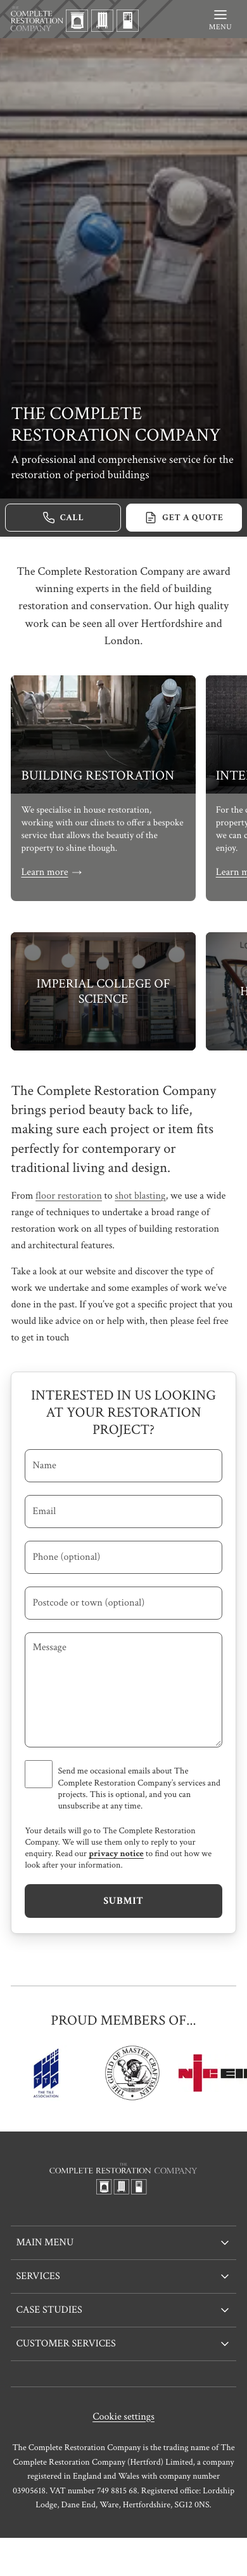
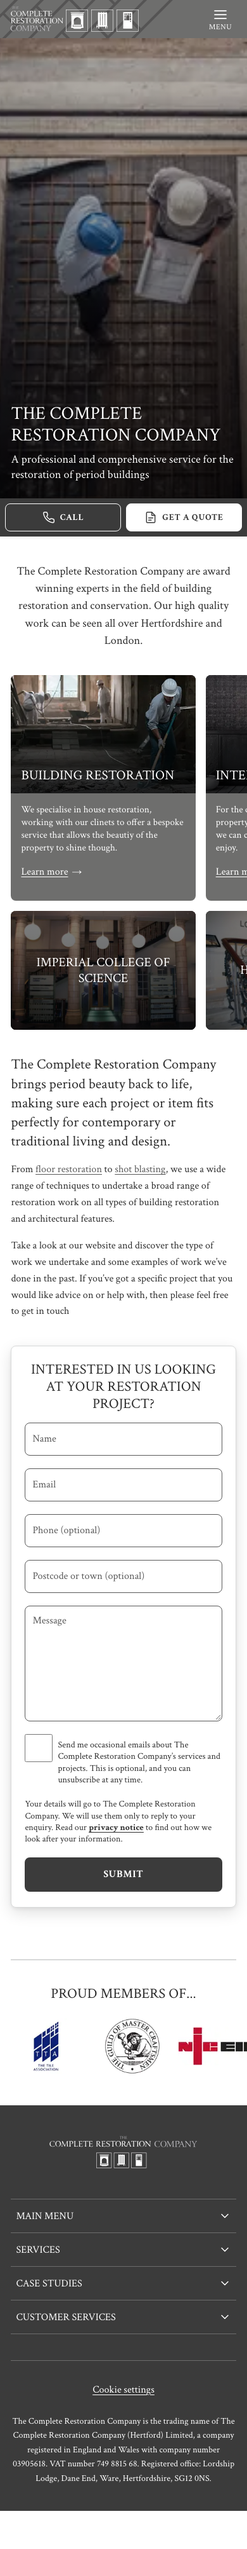
Make the home service and case study sliders one block
Both sliders share one wrapper. A single token sets the gutter between
cards and the gap between the two rows, and that gap belongs to the
wrapper alone. Both use the same card width, gutter and left inset, so
their cards line up in columns at every width; on tablet the case studies
are now two across to match the service boxes.

diff --git a/components/templates/PageView.tsx b/components/templates/PageView.tsx
@@ -43,27 +43,26 @@ export default function PageView({ page }: { page: Page }) {
 function Body({ page }: { page: Page }) {
   switch (page.kind) {
     case 'home': {
-      // The four case studies directly below the service slider, with no
-      // heading, as full-image caption cards like those on /case-studies/.
+      // The service slider and the four case studies (full-image caption
+      // cards, no heading) form one block: same card width, gutter and left
+      // inset, with the gap between the two rows equal to the gutter.
       const caseStudies = getPage('/case-studies/');
       return (
         <>
           <Intro html={page.introHtml} />
           <div className={styles.tiles}>
             <CardGrid cards={page.cards} wide mobile="slider" phoneStyle="overlay" cta={LEARN_MORE} />
-          </div>
-          {caseStudies && caseStudies.cards.length > 0 && (
-            <div className={styles.tiles}>
+            {caseStudies && caseStudies.cards.length > 0 && (
               <CardGrid
                 cards={caseStudies.cards}
                 label={caseStudies.title}
+                wide
                 mobile="slider"
                 phoneStyle="captionAlways"
                 nameSuffix="case study"
-                row
               />
-            </div>
-          )}
+            )}
+          </div>
           <ContentRow page={page} />
         </>
       );

diff --git a/components/Slider/Slider.module.css b/components/Slider/Slider.module.css
@@ -8,19 +8,24 @@
     --slider-columns-tablet  grid columns from 48em
     --slider-columns-desktop grid columns from 64em
     --slider-grid-gap        grid gap from 48em
+    --slider-bleed-y         room above and below the slides for focus rings,
+                             cancelled by an equal negative margin so it adds
+                             no space around the slider (default: none above,
+                             a little below for the scrollbar)
+    --slider-scrollbar       scrollbar-width (default thin)
 */
 
 .slider {
   display: flex;
   gap: var(--slider-gap, var(--space-sm));
-  margin: 0 calc(-1 * var(--gutter));
-  padding: 0 var(--gutter) var(--space-xs);
+  margin: calc(-1 * var(--slider-bleed-y, 0px)) calc(-1 * var(--gutter));
+  padding: var(--slider-bleed-y, 0px) var(--gutter) var(--slider-bleed-y, var(--space-xs));
   list-style: none;
   overflow-x: auto;
   overscroll-behavior-x: contain;
   scroll-snap-type: x mandatory;
   scroll-padding-inline: var(--gutter);
-  scrollbar-width: thin;
+  scrollbar-width: var(--slider-scrollbar, thin);
 }
 
 .slider > li {

diff --git a/components/page/CardGrid.tsx b/components/page/CardGrid.tsx
@@ -21,10 +21,8 @@ type Props = {
   nameSuffix?: string;
   // Call to action shown instead of the card's own label, e.g. "Learn more".
   // It becomes the card's link, named "Learn more about <title>" so screen
-  // readers do not hear several identical links. Four across from tablet up
-  // when `row` is set.
+  // readers do not hear several identical links.
   cta?: string;
-  row?: boolean;
 };
 
 // One column or a swipe slider on phones, two columns from tablet, three from
@@ -40,7 +38,6 @@ export default function CardGrid({
   mobile = 'stack',
   phoneStyle = 'default',
   cta,
-  row = false,
   nameSuffix,
 }: Props) {
   const Heading = headingLevel;
@@ -99,10 +96,7 @@ export default function CardGrid({
 
   if (mobile === 'slider') {
     return (
-      <Slider
-        className={[styles.slides, wide && styles.slidesWide, row && styles.slidesRow].filter(Boolean).join(' ')}
-        label={label}
-      >
+      <Slider className={wide ? `${styles.slides} ${styles.slidesWide}` : styles.slides} label={label}>
         {items}
       </Slider>
     );

diff --git a/components/templates/PageView.module.css b/components/templates/PageView.module.css
@@ -24,7 +24,18 @@
   line-height: 1.3;
 }
 
+/* Home page block of two sliders. One token, --card-gap, is both the gutter
+   between cards and the gap between the two rows, and the row gap belongs to
+   this wrapper alone: the sliders add no margin or padding of their own
+   (their focus-ring room is cancelled by an equal negative margin, and the
+   scrollbar, which would add height, is hidden). */
 .tiles {
+  --card-gap: var(--space-sm);
+  --slider-bleed-y: 0.5rem;
+  --slider-scrollbar: none;
+  display: grid;
+  grid-template-columns: minmax(0, 1fr);
+  row-gap: var(--card-gap);
   max-width: var(--content-max);
   margin: 0 auto;
   padding: var(--space-lg) var(--gutter) 0;
@@ -109,6 +120,10 @@
 
 
 @media (min-width: 48em) {
+  .tiles {
+    --card-gap: var(--space-md);
+  }
+
   .introTight {
     line-height: 1.5;
   }

diff --git a/components/page/CardGrid.module.css b/components/page/CardGrid.module.css
@@ -128,18 +128,16 @@
 
 /* Swipe slider on phones (shared Slider), the same grid from tablet up. */
 
+/* --card-gap can be set by a parent that needs to match the gutter (the
+   home page block); otherwise the gutter is --space-sm on phones and
+   --space-md from tablet up. */
 .slides {
   --slide-width: 82%;
-  --slider-grid-gap: var(--space-md);
+  --slider-gap: var(--card-gap, var(--space-sm));
+  --slider-grid-gap: var(--card-gap, var(--space-md));
 }
 
 .slidesWide {
-  --slider-columns-desktop: repeat(4, minmax(0, 1fr));
-}
-
-/* A single row of four from tablet up (home page case studies). */
-.slidesRow {
-  --slider-columns-tablet: repeat(4, minmax(0, 1fr));
   --slider-columns-desktop: repeat(4, minmax(0, 1fr));
 }
 

diff --git a/NOTES_FOR_STEVE.md b/NOTES_FOR_STEVE.md
@@ -334,3 +334,24 @@ Checks: gate passed; axe clean on all 47 pages at 320, 390 and 1280px; no sidewa
 
 4. `/case-studies/` now shows its four cards in a single row of four from desktop up, matching the home page; one column on phones and two on tablet are unchanged.
 5. The footer Case studies menu now matches the page order exactly: Imperial College of Science, Halcyon Gallery, Haileybury College, Victorian Residence. This replaces the order described in point 2 above.
+
+### Home page sliders as one block (1 October 2026)
+
+The service slider and the case studies slider now sit in one wrapper (`.tiles` in `components/templates/PageView.module.css`).
+
+1. One token, `--card-gap`, sets both the gutter between cards and the gap between the two sliders: `--space-sm` on phones, `--space-md` from tablet up.
+2. The vertical gap belongs to the wrapper alone, as its row gap. The sliders add no margin or padding of their own on either side: the room they keep for focus rings is cancelled by an equal negative margin, and their scrollbar, which would add height, is hidden in this block.
+3. Both sliders use the same card width, gutter and left inset, so the cards line up in columns.
+4. Measured in the browser:
+
+   | Width | Gutter between cards | Gap between the sliders | Card width |
+   |---|---|---|---|
+   | 320px | 16px | 16px | 236px |
+   | 390px | 16px | 16px | 291px |
+   | 768px | 28.4px | 28.4px | 345px |
+   | 1024px | 31.5px | 31.5px | 217px |
+   | 1280px | 34.6px | 34.6px | 244px |
+
+   At every width the two sliders' cards have identical left edges and widths.
+
+One consequence on tablet (768px to 1023px): the service boxes are two across there, so the case studies are now two across as well, in a two-by-two grid. Round 2 had them as a single row of four from tablet up, which could not line up with the service boxes. From desktop (1024px) both are a single row of four.
